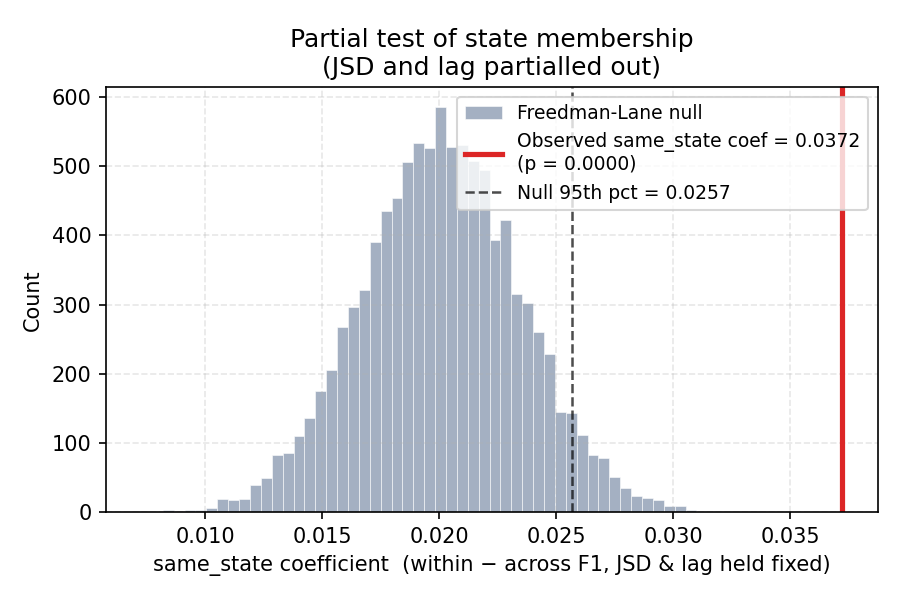
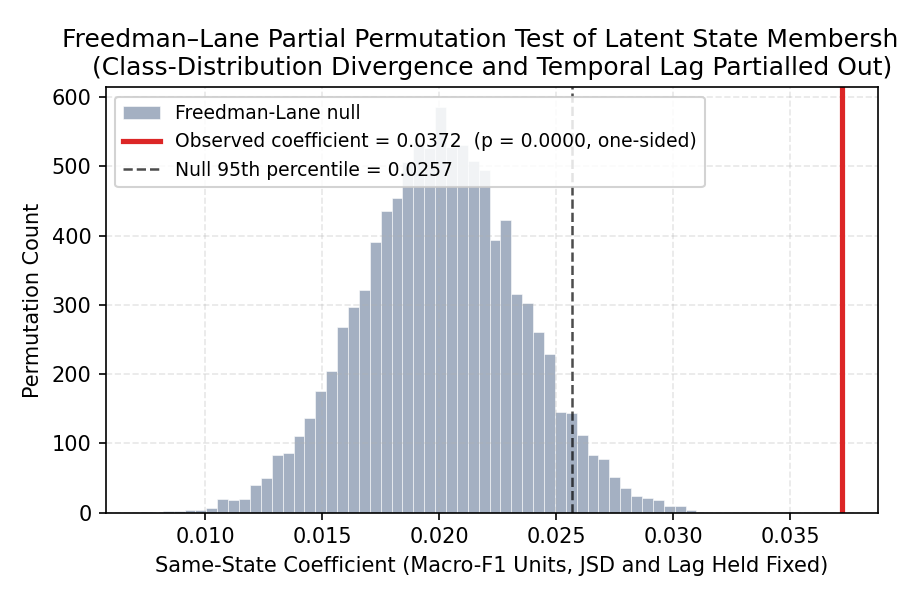
partial jsd graphs

diff --git a/src/generate_all_figures.py b/src/generate_all_figures.py
@@ -121,6 +121,8 @@ def parse_args():
                         "(sub-dirs k{k}/ expected)")
     p.add_argument("--jsd_dir",  default="data/jsd_stability",
                    help="Root of jsd_stability_analysis outputs (subdirs k{k}/)")
+    p.add_argument("--partial_jsd_dir", default="data/partial_jsd/6way",
+               help="Root of partial_jsd_transfer.py outputs (contains k{k}/ subdirs)")
     return p.parse_args()
 
 
@@ -654,6 +656,50 @@ def figure_jsd_stability(k, jsd_dir, k_out, dpi, state_seq=None):
     ax.spines[["top", "right"]].set_visible(False)
     fig2.tight_layout()
     savefig(fig2, os.path.join(k_out, "plot_jsd_stability_null.png"), dpi=dpi)
+
+def figure_partial_jsd(k, partial_jsd_dir, k_out, dpi):
+    """
+    Re-render the two partial-JSD figures from pre-computed .npz output
+    of partial_jsd_transfer.py.
+    """
+    banner(f"Partial-JSD transfer figures  (k={k})")
+    k_in  = os.path.join(partial_jsd_dir, f"k{k}")
+    os.makedirs(k_out, exist_ok=True)
+
+    null_path = os.path.join(k_in, "partial_jsd_null.npz")
+    if not os.path.exists(null_path):
+        print(f"    [skip] partial_jsd figures — {null_path} not found")
+        return
+
+    d = np.load(null_path)
+
+    # ── Plot 1: JSD+lag-residualised F1 by state membership ──────────────
+    pair_path = os.path.join(k_in, "window_pair_table.csv")
+    if os.path.exists(pair_path):
+        df = pd.read_csv(pair_path)
+        # Reconstruct residuals from saved betas
+        beta = d["beta_full"]          # [intercept, jsd, lag, same_state]
+        X = np.column_stack([
+            np.ones(len(df)),
+            df["jsd"].values,
+            df["lag"].values,
+            df["same_state"].values,
+        ])
+        resid = df["f1"].values - X[:, :3] @ beta[:3]  # remove JSD+lag, keep state
+        same_state = df["same_state"].values.astype(int)
+
+        from partial_jsd_transfer import plot_partial_residual
+        plot_partial_residual(
+            resid, same_state,
+            os.path.join(k_out, "partial_jsd_residual.png"))
+    else:
+        print(f"    [skip] partial_jsd_residual — {pair_path} not found")
+
+    # ── Plot 2: Freedman-Lane null histogram ─────────────────────────────
+    from partial_jsd_transfer import plot_indicator_null
+    plot_indicator_null(
+        d["fl_null"], float(d["fl_obs"]), float(d["fl_p_one"]),
+        os.path.join(k_out, "partial_jsd_indicator_null.png"))
 
 # ═════════════════════════════════════════════════════════════════════════════
 # PER-K HELPER FIGURES
@@ -1438,7 +1484,8 @@ def figure_state_pair_correlation(k, corr_dir, k_out, dpi):
 # PER-K
 # ═════════════════════════════════════════════════════════════════════════════
 
-def run_per_k(k, hmm_dir, perf_dir, wa_dir, manifest_path, out_dir, eq_dir, corr_dir, jsd_dir, dpi):
+def run_per_k(k, hmm_dir, perf_dir, wa_dir, manifest_path,
+              out_dir, eq_dir, corr_dir, jsd_dir, partial_jsd_dir, dpi):
     print(f"\n{'═'*60}")
     print(f"  Generating figures for k = {k}")
     print(f"{'═'*60}")
@@ -1508,6 +1555,9 @@ def run_per_k(k, hmm_dir, perf_dir, wa_dir, manifest_path, out_dir, eq_dir, corr
     # JSD stability figures (reads pre-computed data from jsd_stability_analysis.py)
     figure_jsd_stability(k, jsd_dir, k_out, dpi, state_seq=state_seq)
 
+    # Partial-JSD transfer figures  ← ADD THIS
+    figure_partial_jsd(k, partial_jsd_dir, k_out, dpi)
+
 # ═════════════════════════════════════════════════════════════════════════════
 # MAIN
 # ═════════════════════════════════════════════════════════════════════════════
@@ -1534,8 +1584,8 @@ def main():
     # Per-k figures (including equal-segmentation)
     for k in args.k:
         run_per_k(k, args.hmm_dir, args.perf_dir, args.wa_dir,
-                  args.manifest, args.output_dir, args.eq_dir, args.corr_dir,
-                  args.jsd_dir, args.dpi)
+          args.manifest, args.output_dir, args.eq_dir, args.corr_dir,
+          args.jsd_dir, args.partial_jsd_dir, args.dpi)
 
     print(f"\n{'═'*60}")
     print(f"  Done.  All figures in: {args.output_dir}/")

diff --git a/src/partial_jsd_transfer.py b/src/partial_jsd_transfer.py
@@ -501,8 +501,9 @@ def plot_partial_residual(resid, same_state, output_path):
         ax.scatter(x, g, s=6, alpha=0.25,
                    color="#DC2626" if i == 1 else "#2563EB")
     ax.axhline(0.0, color="black", lw=0.8, ls="--", alpha=0.6)
-    ax.set_ylabel("F1 residual (after removing JSD + lag)")
-    ax.set_title("JSD+lag-residualized transfer F1\nby state membership")
+    ax.set_ylabel("Macro-F1 Residual (JSD and Lag Removed)")
+    ax.set_title("Within- vs. Across-State Transfer, Controlling\nfor Class Divergence and Temporal Lag")
+    ax.set_xlabel("State Membership")
     ax.grid(True, axis="y", alpha=0.3, ls="--")
     fig.tight_layout()
     fig.savefig(output_path, dpi=150)
@@ -516,17 +517,17 @@ def rng_jitter(n, center, width=0.12, seed=0):
 
 
 def plot_indicator_null(null_coefs, obs_coef, p_one, output_path):
-    fig, ax = plt.subplots(figsize=(6, 4))
+    fig, ax = plt.subplots(figsize=(8, 4))
     ax.hist(null_coefs, bins=60, color="#94A3B8", edgecolor="white",
             lw=0.3, alpha=0.85, label="Freedman-Lane null")
     ax.axvline(obs_coef, color="#DC2626", lw=2.5,
-               label=f"Observed same_state coef = {obs_coef:.4f}\n(p = {p_one:.4f})")
+           label=f"Observed coefficient = {obs_coef:.4f}  (p = {p_one:.4f})")
     ax.axvline(np.percentile(null_coefs, 95), color="black", lw=1.2, ls="--",
-               alpha=0.7, label=f"Null 95th pct = {np.percentile(null_coefs,95):.4f}")
-    ax.set_xlabel("same_state coefficient  (within − across F1, JSD & lag held fixed)")
-    ax.set_ylabel("Count")
-    ax.set_title("Partial test of state membership\n(JSD and lag partialled out)")
-    ax.legend(fontsize=9)
+            alpha=0.7, label=f"Null 95th percentile = {np.percentile(null_coefs, 95):.4f}")
+    ax.set_xlabel("Same-State Coefficient (Macro-F1, JSD and Lag Held Fixed)")
+    ax.set_ylabel("Permutation Count")
+    ax.set_title("Freedman–Lane Test of Latent State Membership\nAfter Partialling Out Class Divergence and Lag")
+    ax.legend(fontsize=9, framealpha=0.85)
     ax.grid(True, alpha=0.3, ls="--")
     fig.tight_layout()
     fig.savefig(output_path, dpi=150)